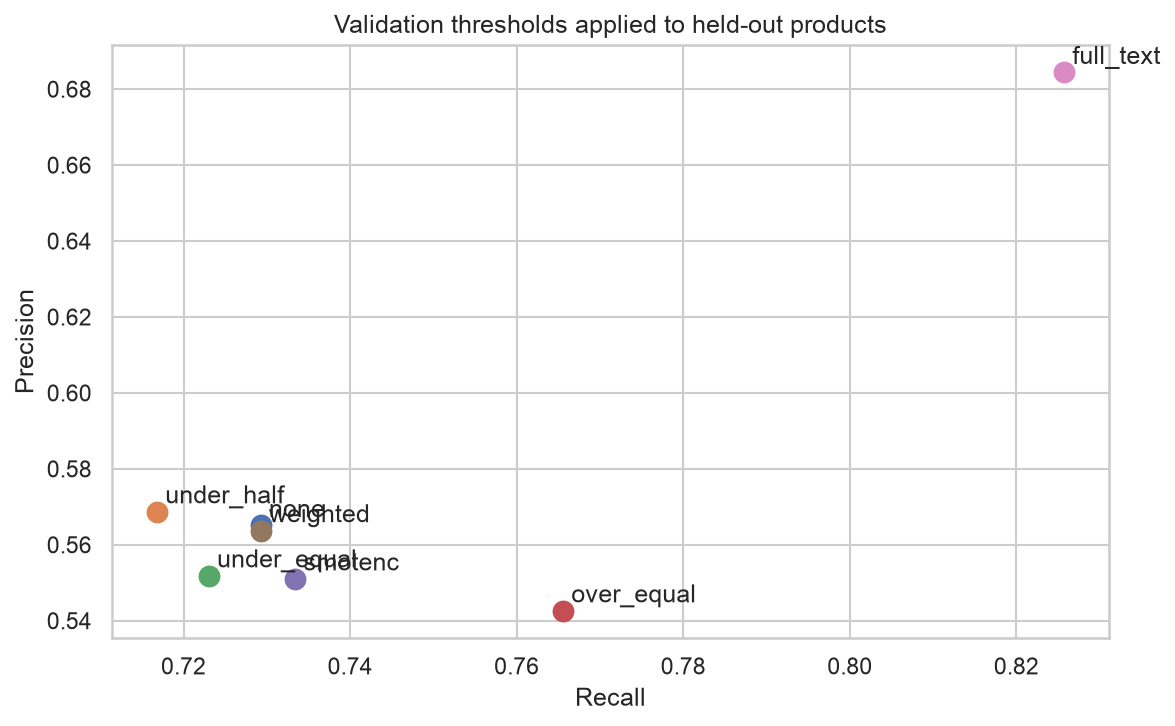
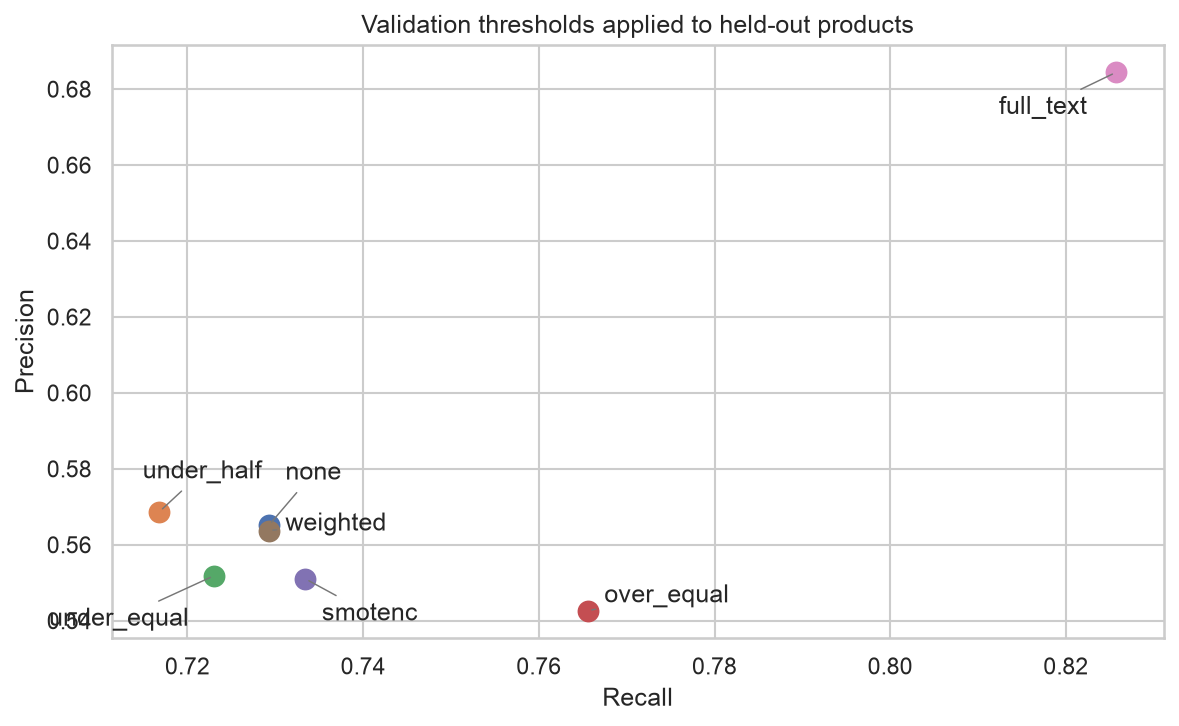
Improve operating-tradeoff chart label readability

diff --git a/src/cartguard/visualization.py b/src/cartguard/visualization.py
@@ -61,12 +61,23 @@ def render(root):
     ax.legend()
     save("precision_recall")
     fig, ax = plt.subplots(figsize=(8, 5))
+    offsets = {
+        "none": (8, 22),
+        "weighted": (8, 0),
+        "smotenc": (8, -20),
+        "under_equal": (-12, -24),
+        "under_half": (-8, 16),
+        "over_equal": (8, 4),
+        "full_text": (-14, -20),
+    }
     for row in scores[scores.scenario == "natural"].itertuples():
         ax.scatter(row.recall, row.precision, s=90)
         ax.annotate(
             row.strategy,
             (row.recall, row.precision),
-            xytext=(4, 4),
+            xytext=offsets[row.strategy],
+            ha="right" if row.strategy in {"under_equal", "full_text"} else "left",
+            arrowprops={"arrowstyle": "-", "color": "#777777", "lw": 0.7},
             textcoords="offset points",
         )
     ax.set(
